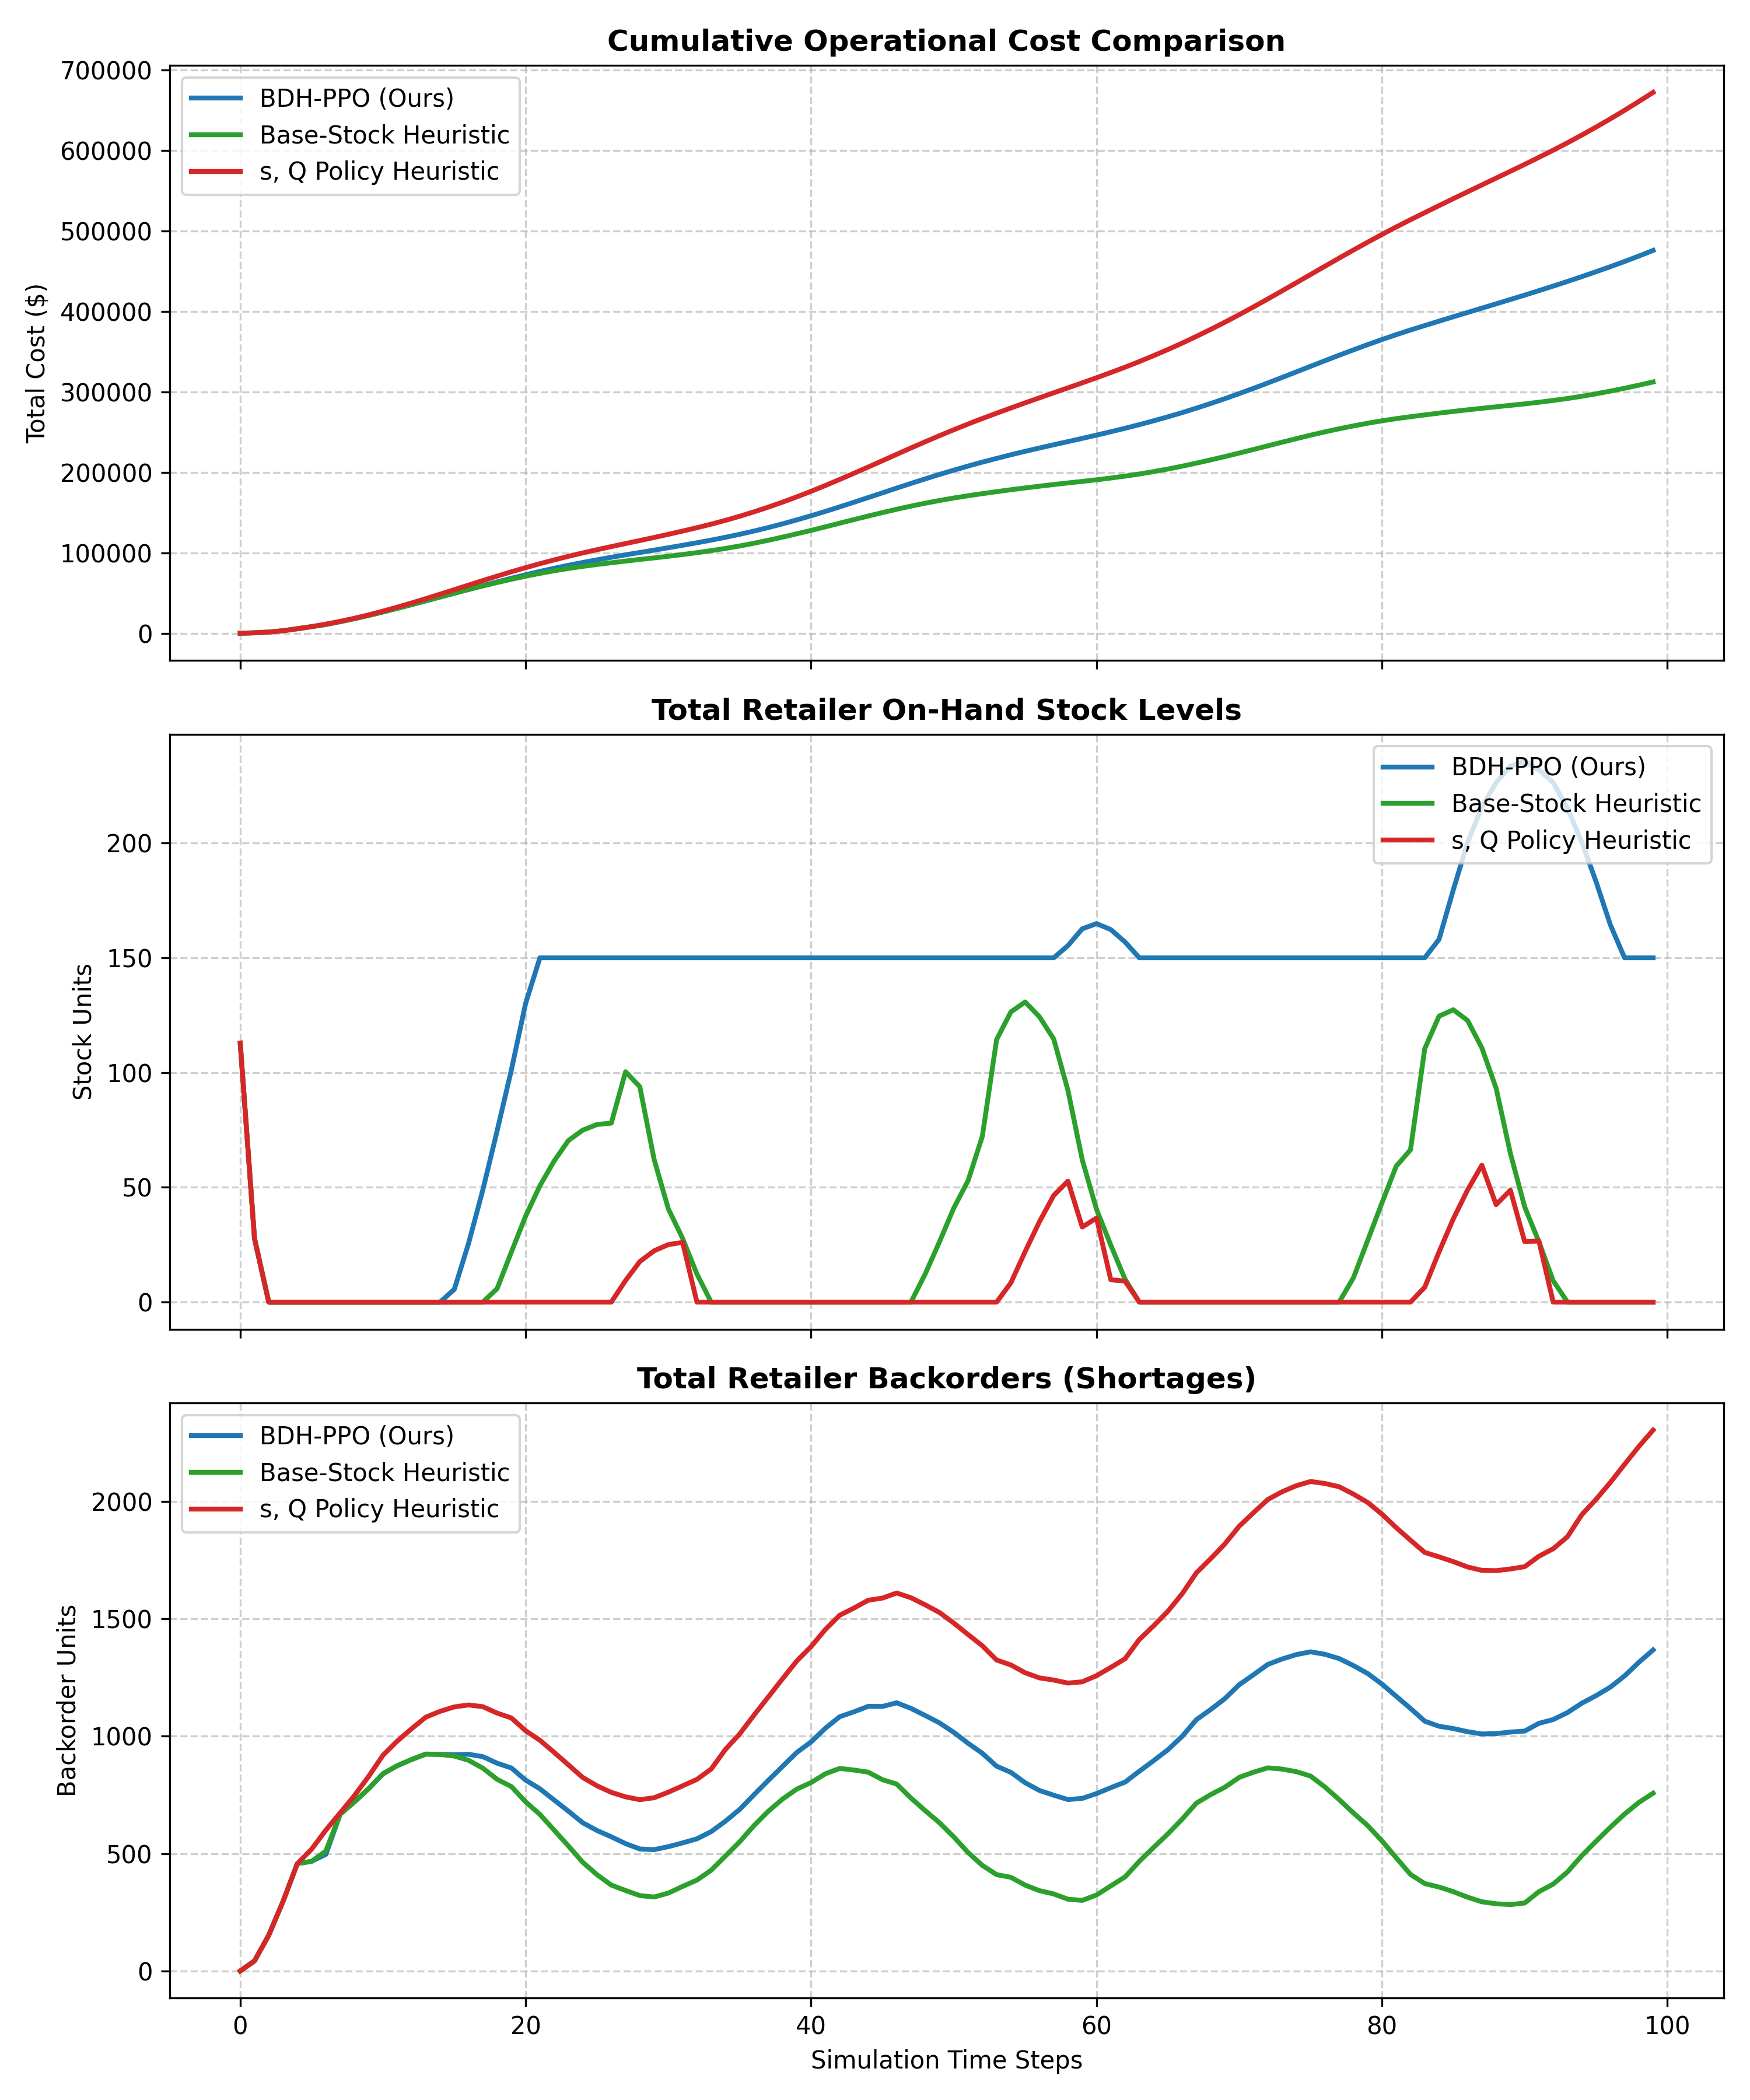
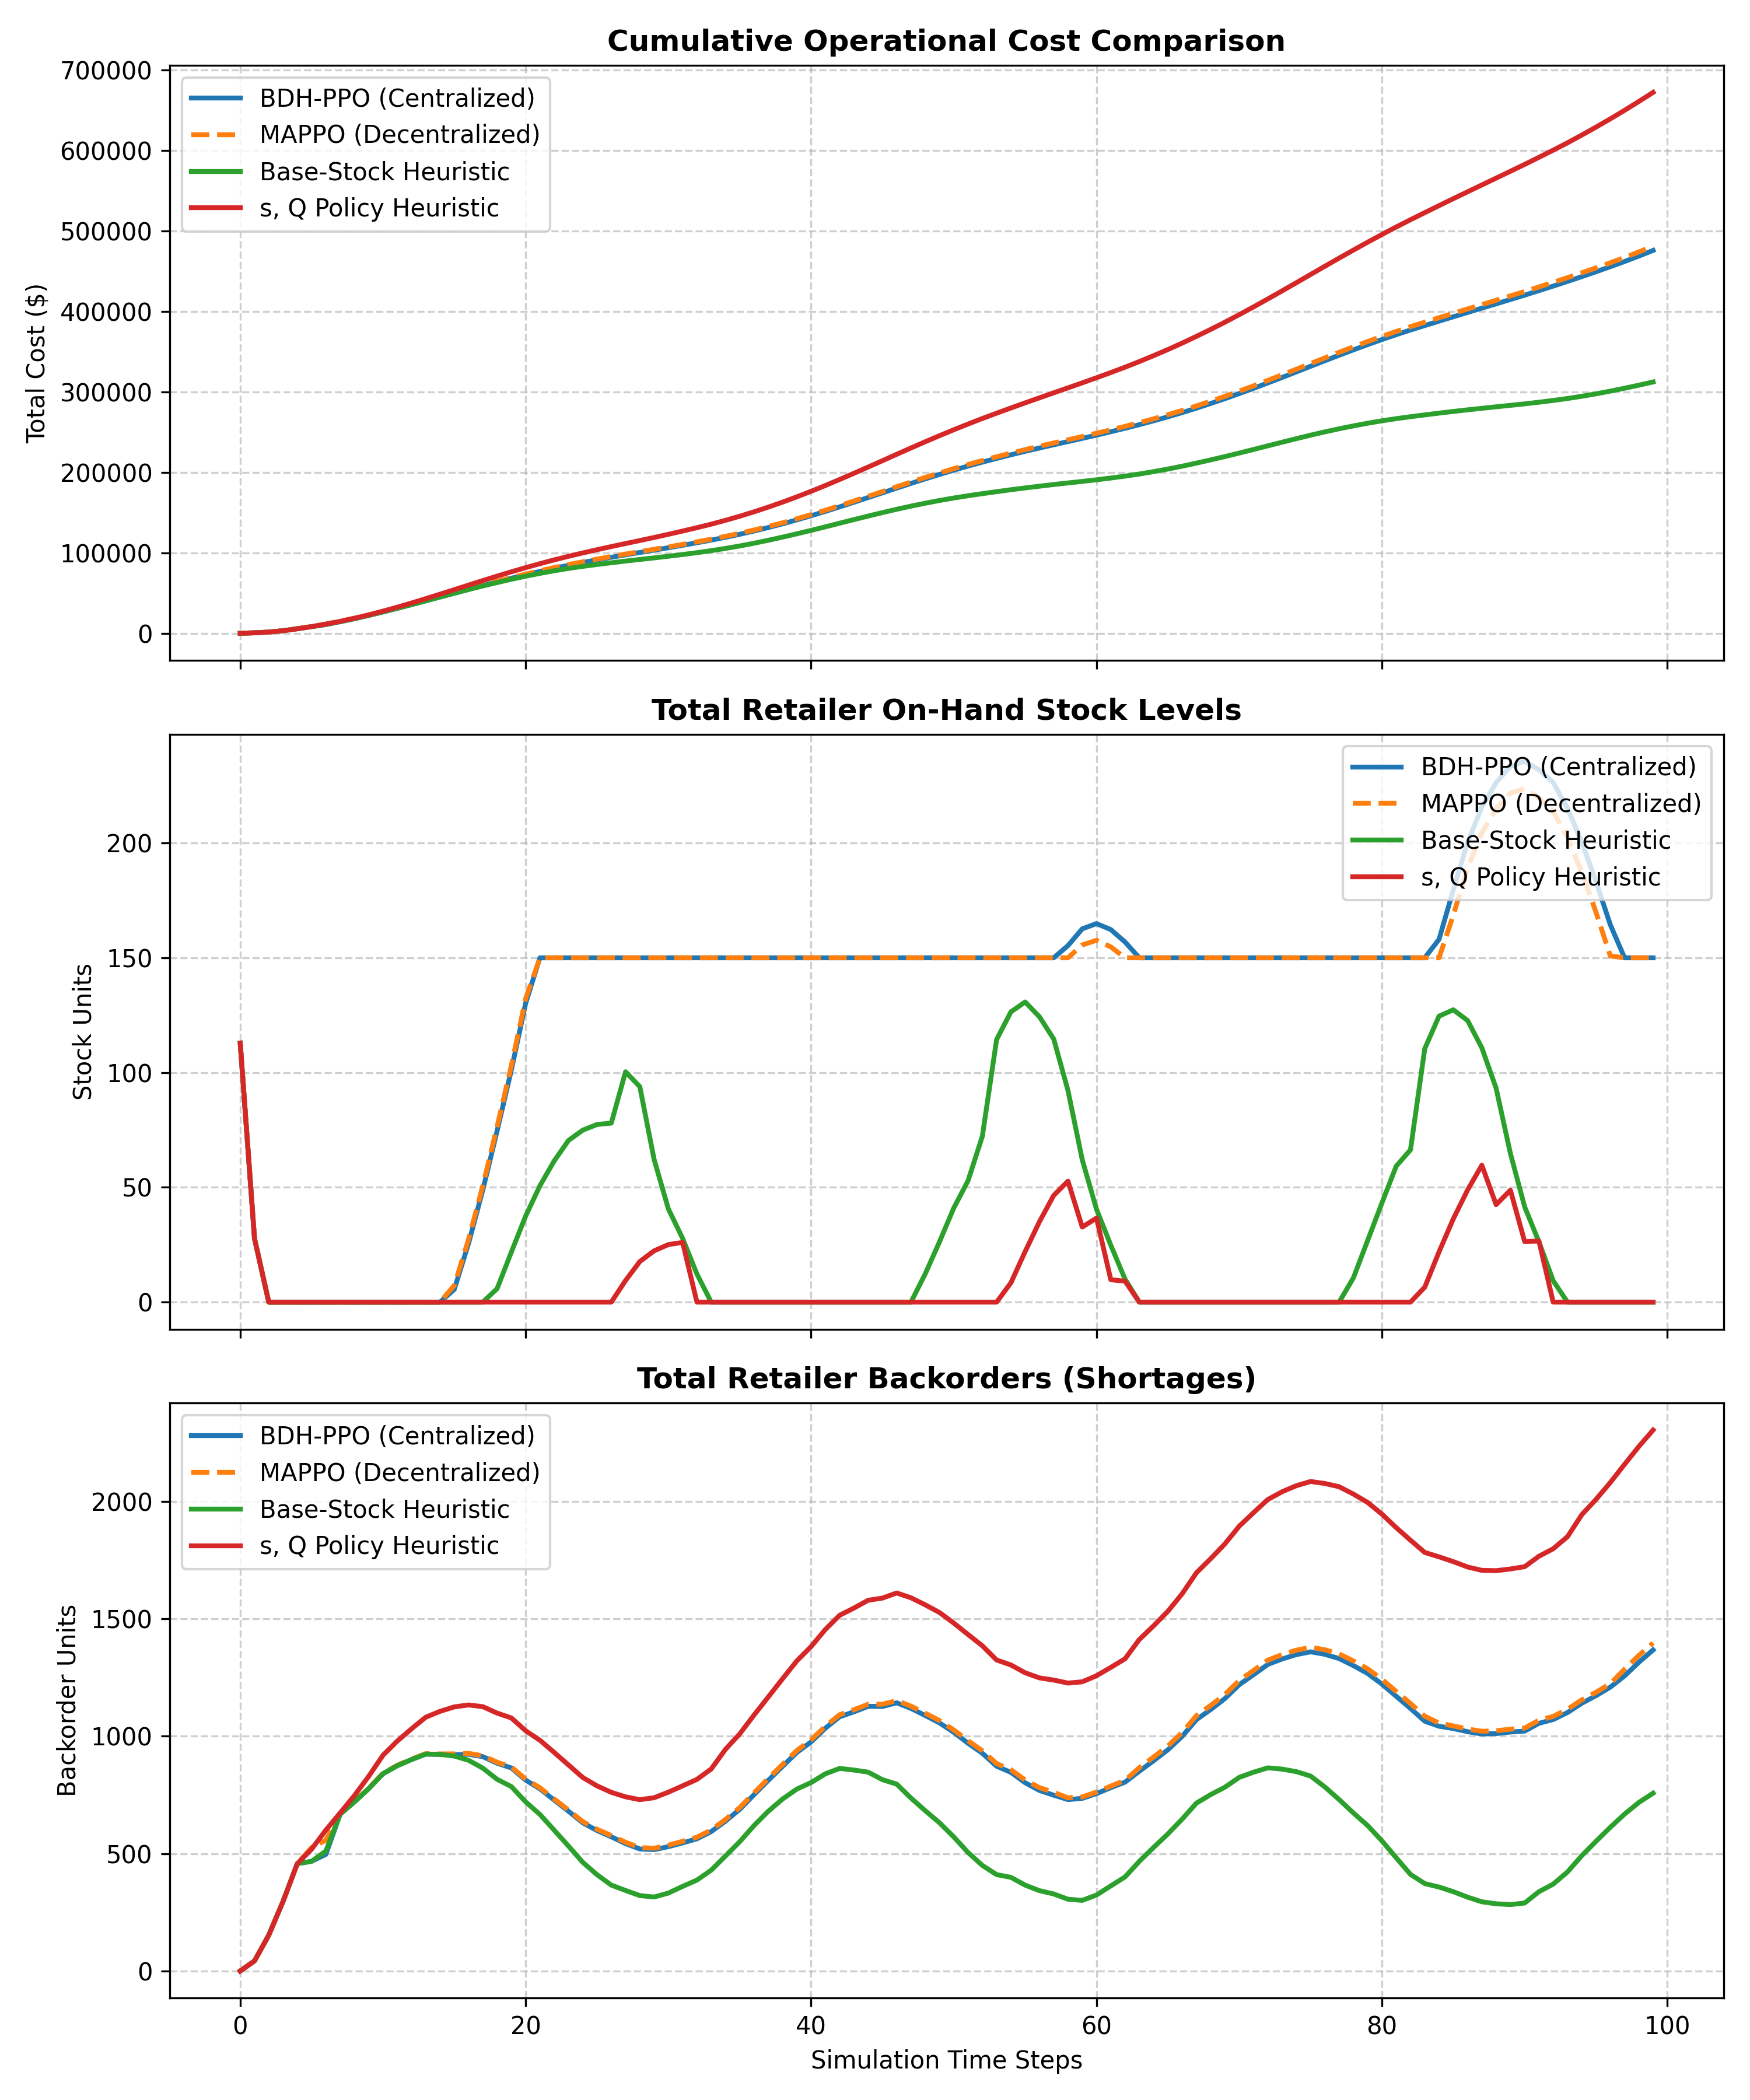
update evaluate.py to support MAPPO evaluation and update comparison charts/benchmark text files

Changed region(s): [[0.775, 0.3422, 0.961, 0.4356], [0.093, 0.6844, 0.31, 0.7467], [0.093, 0.0311, 0.31, 0.1244]]

diff --git a/src/evaluate.py b/src/evaluate.py
@@ -2,11 +2,107 @@ import torch
 import numpy as np
 import os
 import matplotlib.pyplot as plt
+from collections import OrderedDict
 from env import MultiEchelonSupplyChainEnv
 from bdh import BDH_GPU
 from ppo import get_history
 from willems_loader import get_willems_config, get_deterministic_demands
 from baselines import tune_baselines
+
+# Utility helper to pad observations
+def pad_obs(obs, target_dim):
+    if len(obs) < target_dim:
+        return np.pad(obs, (0, target_dim - len(obs)), mode='constant')
+    return obs[:target_dim]
+
+# Recurrent evaluation loop for Decentralized MAPPO
+def run_mappo_evaluation(env, model_wh, model_ret, deterministic_demands, T_context=10):
+    env.eval_demand = deterministic_demands
+    obs_dict, _ = env.reset(seed=42)
+    
+    device = next(model_wh.parameters()).device
+    max_ret_obs_dim = max(env.observation_spaces[f"retailer_{i}"].shape[0] for i in range(env.num_retailers))
+    
+    hidden_wh = model_wh.init_recurrent_states(1, device)
+    hidden_rets = [model_ret.init_recurrent_states(1, device) for _ in range(env.num_retailers)]
+    
+    total_cost = 0.0
+    holding_cost = 0.0
+    backorder_cost = 0.0
+    shipping_cost = 0.0
+    production_cost = 0.0
+    
+    total_demand = 0.0
+    total_unfilled = 0.0
+    
+    cost_trajectory = []
+    wh_stock_trajectory = []
+    ret_stock_trajectory = []
+    backorder_trajectory = []
+    
+    steps = len(deterministic_demands) - env.hist_len
+    
+    for step in range(steps):
+        # 1. Warehouse forward recurrent pass
+        obs_wh_t = torch.as_tensor(obs_dict["warehouse"], dtype=torch.float32).unsqueeze(0).to(device)
+        with torch.no_grad():
+            mu_wh, _, _, next_hidden_wh = model_wh.forward_recurrent(obs_wh_t, step, hidden_wh)
+        action_wh = [mu_wh.cpu().numpy()[0][0]]
+        
+        # 2. Retailers forward recurrent pass
+        action_dict = {"warehouse": action_wh}
+        next_hidden_rets = []
+        for i in range(env.num_retailers):
+            padded = pad_obs(obs_dict[f"retailer_{i}"], max_ret_obs_dim)
+            obs_ret_t = torch.as_tensor(padded, dtype=torch.float32).unsqueeze(0).to(device)
+            with torch.no_grad():
+                mu_ret, _, _, next_hidden_ret = model_ret.forward_recurrent(obs_ret_t, step, hidden_rets[i])
+            action_dict[f"retailer_{i}"] = [mu_ret.cpu().numpy()[0][0]]
+            next_hidden_rets.append(next_hidden_ret)
+            
+        # Step env
+        obs_dict, rewards_dict, term_dict, trunc_dict, infos_dict = env.step(action_dict)
+        hidden_wh = next_hidden_wh
+        hidden_rets = next_hidden_rets
+        
+        # Accumulate metrics
+        info = infos_dict["warehouse"]
+        total_cost += info["total_cost"]
+        holding_cost += info["holding_cost"]
+        backorder_cost += info["backorder_cost"]
+        shipping_cost += info["shipping_cost"]
+        production_cost += info["production_cost"]
+        
+        demands = info["demands"]
+        backorders = env.ret_backorders
+        
+        total_demand += np.sum(demands)
+        total_unfilled += np.sum(np.minimum(demands, backorders))
+        
+        # Track step trajectories
+        cost_trajectory.append(total_cost)
+        wh_stock_trajectory.append(env.wh_stock)
+        ret_stock_trajectory.append(env.ret_stocks.copy())
+        backorder_trajectory.append(env.ret_backorders.copy())
+        
+        if term_dict["warehouse"] or trunc_dict["warehouse"]:
+            break
+            
+    env.eval_demand = None
+    service_level = max(0.0, 100.0 * (1.0 - (total_unfilled / (total_demand + 1e-8))))
+    
+    return {
+        "total_cost": total_cost,
+        "holding_cost": holding_cost,
+        "backorder_cost": backorder_cost,
+        "shipping_cost": shipping_cost,
+        "production_cost": production_cost,
+        "service_level": service_level,
+        "cost_trajectory": cost_trajectory,
+        "wh_stock_trajectory": wh_stock_trajectory,
+        "ret_stock_trajectory": ret_stock_trajectory,
+        "backorder_trajectory": backorder_trajectory
+    }
 
 def run_evaluation(env, policy_type, policy_model, deterministic_demands, T_context=10):
     """
@@ -63,7 +159,6 @@ def run_evaluation(env, policy_type, policy_model, deterministic_demands, T_cont
         backorders = env.ret_backorders
         
         total_demand += np.sum(demands)
-        # Type II Service Level (Fill Rate) calculation: unsatisfied new demand is min(demands, backorders)
         total_unfilled += np.sum(np.minimum(demands, backorders))
         
         # Track step trajectories
@@ -77,8 +172,6 @@ def run_evaluation(env, policy_type, policy_model, deterministic_demands, T_cont
             
     # Reset env demands
     env.eval_demand = None
-    
-    # Calculate Service Level (Fill Rate: percentage of demand satisfied immediately)
     service_level = max(0.0, 100.0 * (1.0 - (total_unfilled / (total_demand + 1e-8))))
     
     return {
@@ -145,28 +238,78 @@ def evaluate_all(network_id=1, model_path=None, T_context=10):
         
     bdh_model.eval()
     
-    # 3. Instantiate and tune traditional heuristics
+    # 3. Load Cooperative MAPPO models
+    env_ma = MultiEchelonSupplyChainEnv(config, mode="multi_agent")
+    wh_obs_dim = env_ma.observation_spaces["warehouse"].shape[0]
+    max_ret_obs_dim = max(env_ma.observation_spaces[f"retailer_{i}"].shape[0] for i in range(env_ma.num_retailers))
+    
+    model_ma_wh = BDH_GPU(obs_dim=wh_obs_dim, act_dim=1, D=32, H=2, N=256, L=2).to(device)
+    model_ma_ret = BDH_GPU(obs_dim=max_ret_obs_dim, act_dim=1, D=32, H=2, N=256, L=2).to(device)
+    
+    # Look for MAPPO checkpoints
+    mappo_wh_path = None
+    mappo_ret_path = None
+    for cand_wh, cand_ret in [
+        (f"SynapSCIM_mappo_checkpoints/bdh_mappo_wh_{network_id}_20000.pt", f"SynapSCIM_mappo_checkpoints/bdh_mappo_ret_{network_id}_20000.pt"),
+        ("SynapSCIM_mappo_checkpoints/bdh_mappo_wh_20000.pt", "SynapSCIM_mappo_checkpoints/bdh_mappo_ret_20000.pt"),
+        ("SynapSCIM_mappo_checkpoints/bdh_mappo_wh.pt", "SynapSCIM_mappo_checkpoints/bdh_mappo_ret.pt"),
+        ("bdh_mappo_wh.pt", "bdh_mappo_ret.pt")
+    ]:
+        if os.path.exists(cand_wh) and os.path.exists(cand_ret):
+            mappo_wh_path = cand_wh
+            mappo_ret_path = cand_ret
+            break
+            
+    if mappo_wh_path is not None and mappo_ret_path is not None:
+        print(f"Loading MAPPO weights from {mappo_wh_path} and {mappo_ret_path}...")
+        
+        state_dict_wh = torch.load(mappo_wh_path, map_location=device)
+        new_wh = OrderedDict()
+        for k, v in state_dict_wh.items():
+            if k.startswith("_orig_mod."):
+                new_wh[k[10:]] = v
+            else:
+                new_wh[k] = v
+        model_ma_wh.load_state_dict(new_wh)
+        
+        state_dict_ret = torch.load(mappo_ret_path, map_location=device)
+        new_ret = OrderedDict()
+        for k, v in state_dict_ret.items():
+            if k.startswith("_orig_mod."):
+                new_ret[k[10:]] = v
+            else:
+                new_ret[k] = v
+        model_ma_ret.load_state_dict(new_ret)
+    else:
+        print("[Warning] Trained MAPPO weights not found. Using randomly initialized models.")
+        
+    model_ma_wh.eval()
+    model_ma_ret.eval()
+    
+    # 4. Instantiate and tune traditional heuristics
     print("Tuning traditional Base-Stock and (s, Q) policies...")
     bs_policy, sq_policy = tune_baselines(env, eval_demands, steps=100)
     
-    # 4. Run simulations
+    # 5. Run simulations
     print("Running simulations...")
     bdh_results = run_evaluation(env, "bdh_ppo", bdh_model, eval_demands, T_context)
+    mappo_results = run_mappo_evaluation(env_ma, model_ma_wh, model_ma_ret, eval_demands, T_context)
     bs_results = run_evaluation(env, "base_stock", bs_policy, eval_demands, T_context)
     sq_results = run_evaluation(env, "sq", sq_policy, eval_demands, T_context)
     
-    # 5. Output comparison results to stdout
+    # 6. Output comparison results to stdout
     print("\n=============================================================")
     print(f"               BENCHMARK RESULTS (Network {network_id})")
     print("=============================================================")
-    print(f"{'Policy':<20} | {'Total Cost':<12} | {'Holding':<10} | {'Backorder':<10} | {'Service Level':<14}")
-    print("-" * 75)
-    print(f"{'BDH-PPO (Ours)':<20} | {bdh_results['total_cost']:12.2f} | {bdh_results['holding_cost']:10.2f} | {bdh_results['backorder_cost']:10.2f} | {bdh_results['service_level']:12.2f}%")
-    print(f"{'Base-Stock':<20} | {bs_results['total_cost']:12.2f} | {bs_results['holding_cost']:10.2f} | {bs_results['backorder_cost']:10.2f} | {bs_results['service_level']:12.2f}%")
-    print(f"{'s, Q Policy':<20} | {sq_results['total_cost']:12.2f} | {sq_results['holding_cost']:10.2f} | {sq_results['backorder_cost']:10.2f} | {sq_results['service_level']:12.2f}%")
+    print(f"{'Policy':<22} | {'Total Cost':<12} | {'Holding':<10} | {'Backorder':<10} | {'Service Level':<14}")
+    print("-" * 77)
+    print(f"{'BDH-PPO (Centralized)':<22} | {bdh_results['total_cost']:12.2f} | {bdh_results['holding_cost']:10.2f} | {bdh_results['backorder_cost']:10.2f} | {bdh_results['service_level']:12.2f}%")
+    print(f"{'MAPPO (Decentralized)':<22} | {mappo_results['total_cost']:12.2f} | {mappo_results['holding_cost']:10.2f} | {mappo_results['backorder_cost']:10.2f} | {mappo_results['service_level']:12.2f}%")
+    print(f"{'Base-Stock':<22} | {bs_results['total_cost']:12.2f} | {bs_results['holding_cost']:10.2f} | {bs_results['backorder_cost']:10.2f} | {bs_results['service_level']:12.2f}%")
+    print(f"{'s, Q Policy':<22} | {sq_results['total_cost']:12.2f} | {sq_results['holding_cost']:10.2f} | {sq_results['backorder_cost']:10.2f} | {sq_results['service_level']:12.2f}%")
     print("=============================================================\n")
     
-    # 6. Save results to report files
+    # 7. Save results to report files
     os.makedirs("reports/centralized_ppo", exist_ok=True)
     
     # Save text report
@@ -175,11 +318,12 @@ def evaluate_all(network_id=1, model_path=None, T_context=10):
         f.write("=============================================================\n")
         f.write(f"               BENCHMARK RESULTS (Network {network_id})\n")
         f.write("=============================================================\n")
-        f.write(f"{'Policy':<20} | {'Total Cost':<12} | {'Holding':<10} | {'Backorder':<10} | {'Service Level (Fill Rate)':<14}\n")
-        f.write("-" * 85 + "\n")
-        f.write(f"{'BDH-PPO (Ours)':<20} | {bdh_results['total_cost']:12.2f} | {bdh_results['holding_cost']:10.2f} | {bdh_results['backorder_cost']:10.2f} | {bdh_results['service_level']:12.2f}%\n")
-        f.write(f"{'Base-Stock':<20} | {bs_results['total_cost']:12.2f} | {bs_results['holding_cost']:10.2f} | {bs_results['backorder_cost']:10.2f} | {bs_results['service_level']:12.2f}%\n")
-        f.write(f"{'s, Q Policy':<20} | {sq_results['total_cost']:12.2f} | {sq_results['holding_cost']:10.2f} | {sq_results['backorder_cost']:10.2f} | {sq_results['service_level']:12.2f}%\n")
+        f.write(f"{'Policy':<22} | {'Total Cost':<12} | {'Holding':<10} | {'Backorder':<10} | {'Service Level (Fill Rate)':<14}\n")
+        f.write("-" * 87 + "\n")
+        f.write(f"{'BDH-PPO (Centralized)':<22} | {bdh_results['total_cost']:12.2f} | {bdh_results['holding_cost']:10.2f} | {bdh_results['backorder_cost']:10.2f} | {bdh_results['service_level']:12.2f}%\n")
+        f.write(f"{'MAPPO (Decentralized)':<22} | {mappo_results['total_cost']:12.2f} | {mappo_results['holding_cost']:10.2f} | {mappo_results['backorder_cost']:10.2f} | {mappo_results['service_level']:12.2f}%\n")
+        f.write(f"{'Base-Stock':<22} | {bs_results['total_cost']:12.2f} | {bs_results['holding_cost']:10.2f} | {bs_results['backorder_cost']:10.2f} | {bs_results['service_level']:12.2f}%\n")
+        f.write(f"{'s, Q Policy':<22} | {sq_results['total_cost']:12.2f} | {sq_results['holding_cost']:10.2f} | {sq_results['backorder_cost']:10.2f} | {sq_results['service_level']:12.2f}%\n")
         f.write("=============================================================\n")
     print(f"Benchmark results table saved to {report_txt_path}")
     
@@ -187,7 +331,8 @@ def evaluate_all(network_id=1, model_path=None, T_context=10):
     fig, axes = plt.subplots(3, 1, figsize=(10, 12), sharex=True)
     
     # Subplot 1: Cumulative Cost
-    axes[0].plot(bdh_results["cost_trajectory"], label="BDH-PPO (Ours)", color="#1f77b4", linewidth=2)
+    axes[0].plot(bdh_results["cost_trajectory"], label="BDH-PPO (Centralized)", color="#1f77b4", linewidth=2)
+    axes[0].plot(mappo_results["cost_trajectory"], label="MAPPO (Decentralized)", color="#ff7f0e", linewidth=2, linestyle="--")
     axes[0].plot(bs_results["cost_trajectory"], label="Base-Stock Heuristic", color="#2ca02c", linewidth=2)
     axes[0].plot(sq_results["cost_trajectory"], label="s, Q Policy Heuristic", color="#d62728", linewidth=2)
     axes[0].set_title("Cumulative Operational Cost Comparison", fontsize=12, fontweight='bold')
@@ -197,10 +342,12 @@ def evaluate_all(network_id=1, model_path=None, T_context=10):
     
     # Subplot 2: Total Retailer Stock levels over time
     bdh_sum_stock = [np.sum(s) for s in bdh_results["ret_stock_trajectory"]]
+    mappo_sum_stock = [np.sum(s) for s in mappo_results["ret_stock_trajectory"]]
     bs_sum_stock = [np.sum(s) for s in bs_results["ret_stock_trajectory"]]
     sq_sum_stock = [np.sum(s) for s in sq_results["ret_stock_trajectory"]]
     
-    axes[1].plot(bdh_sum_stock, label="BDH-PPO (Ours)", color="#1f77b4", linewidth=2)
+    axes[1].plot(bdh_sum_stock, label="BDH-PPO (Centralized)", color="#1f77b4", linewidth=2)
+    axes[1].plot(mappo_sum_stock, label="MAPPO (Decentralized)", color="#ff7f0e", linewidth=2, linestyle="--")
     axes[1].plot(bs_sum_stock, label="Base-Stock Heuristic", color="#2ca02c", linewidth=2)
     axes[1].plot(sq_sum_stock, label="s, Q Policy Heuristic", color="#d62728", linewidth=2)
     axes[1].set_title("Total Retailer On-Hand Stock Levels", fontsize=12, fontweight='bold')
@@ -210,10 +357,12 @@ def evaluate_all(network_id=1, model_path=None, T_context=10):
     
     # Subplot 3: Total Retailer Backorders over time
     bdh_sum_backorder = [np.sum(b) for b in bdh_results["backorder_trajectory"]]
+    mappo_sum_backorder = [np.sum(b) for b in mappo_results["backorder_trajectory"]]
     bs_sum_backorder = [np.sum(b) for b in bs_results["backorder_trajectory"]]
     sq_sum_backorder = [np.sum(b) for b in sq_results["backorder_trajectory"]]
     
-    axes[2].plot(bdh_sum_backorder, label="BDH-PPO (Ours)", color="#1f77b4", linewidth=2)
+    axes[2].plot(bdh_sum_backorder, label="BDH-PPO (Centralized)", color="#1f77b4", linewidth=2)
+    axes[2].plot(mappo_sum_backorder, label="MAPPO (Decentralized)", color="#ff7f0e", linewidth=2, linestyle="--")
     axes[2].plot(bs_sum_backorder, label="Base-Stock Heuristic", color="#2ca02c", linewidth=2)
     axes[2].plot(sq_sum_backorder, label="s, Q Policy Heuristic", color="#d62728", linewidth=2)
     axes[2].set_title("Total Retailer Backorders (Shortages)", fontsize=12, fontweight='bold')
@@ -230,6 +379,7 @@ def evaluate_all(network_id=1, model_path=None, T_context=10):
     
     return {
         "bdh": bdh_results,
+        "mappo": mappo_results,
         "base_stock": bs_results,
         "sq": sq_results
     }